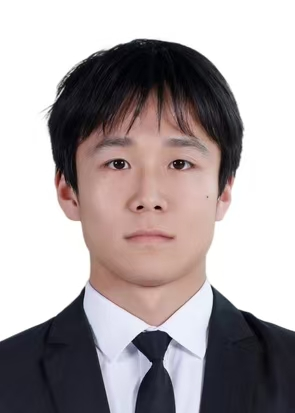
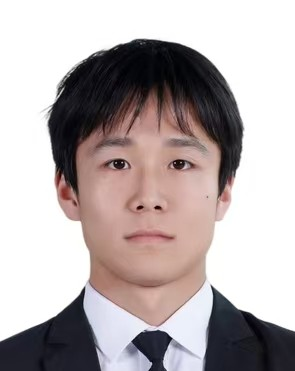
deploy: 卡通学生插画与更新老师照片

Changed region(s): [[0.0, 0.0889, 1.0, 1.0], [0.8847, 0.9488, 0.9153, 1.0]]

diff --git a/index.html b/index.html
@@ -1,1 +1,1 @@
-<!DOCTYPE html> <html lang="zh-CN"> <head>   <meta charset="UTF-8">   <meta name="viewport" content="width=device-width, initial-scale=1">   <title>体验课报名</title>   <link rel="stylesheet" href="css/styles.css"> </head> <body>   <div id="app">     <section id="view-poster" class="view">       <header class="page-head">         <div class="hero-decor" aria-hidden="true">           <svg class="sun" viewBox="0 0 80 80" xmlns="http://www.w3.org/2000/svg"><circle cx="40" cy="40" r="20" fill="#FFC94A"/><g stroke="#FFC94A" stroke-width="5" stroke-linecap="round"><line x1="40" y1="6" x2="40" y2="16"/><line x1="40" y1="64" x2="40" y2="74"/><line x1="6" y1="40" x2="16" y2="40"/><line x1="64" y1="40" x2="74" y2="40"/><line x1="16" y1="16" x2="23" y2="23"/><line x1="57" y1="57" x2="64" y2="64"/><line x1="16" y1="64" x2="23" y2="57"/><line x1="57" y1="23" x2="64" y2="16"/></g></svg>           <svg class="cloud cloud-1" viewBox="0 0 100 60" xmlns="http://www.w3.org/2000/svg"><g fill="#FFFFFF"><ellipse cx="30" cy="42" rx="24" ry="12"/><ellipse cx="52" cy="34" rx="18" ry="14"/><ellipse cx="74" cy="42" rx="20" ry="11"/></g></svg>           <svg class="cloud cloud-2" viewBox="0 0 100 60" xmlns="http://www.w3.org/2000/svg"><g fill="#FFFFFF"><ellipse cx="30" cy="42" rx="24" ry="12"/><ellipse cx="52" cy="34" rx="18" ry="14"/><ellipse cx="74" cy="42" rx="20" ry="11"/></g></svg>         </div>         <h1 class="site-title">XXX体验课</h1>         <p class="site-subtitle">多学科体验 · 可视化反馈 · 课后延续</p>       </header>        <section class="module-card">         <div class="module-head">           <h2 class="module-title">📚 课程特色</h2>           <a class="link-more" href="#/detail/course">详细了解→</a>         </div>         <div class="feature-list" id="feature-list"></div>       </section>        <section class="module-card">         <div class="module-head">           <h2 class="module-title">👩🏫 师资力量</h2>           <a class="link-more" href="#/detail/teachers">详细了解→</a>         </div>         <div class="teacher-grid" id="teacher-grid"></div>       </section>        <section class="module-card">         <div class="module-head">           <h2 class="module-title">🏆 往期学员成果</h2>           <a class="link-more" href="#/detail/works">详细了解→</a>         </div>         <div class="work-grid" id="work-grid"></div>       </section>        <div class="cta-wrap">         <a class="btn-primary" href="#/register">立即报名</a>       </div>     </section>      <section id="view-detail" class="view">       <header class="page-head detail-head">         <a class="btn-back" href="#/">‹ 返回</a>         <h1 class="page-title" id="detail-title">课程特色</h1>       </header>       <div class="detail-body" id="detail-body">内容待更新</div>     </section>      <section id="view-register" class="view">       <header class="page-head detail-head">         <a class="btn-back" href="#/">‹ 返回</a>         <h1 class="page-title">体验课报名</h1>       </header>        <div class="form-group">         <label class="form-label">家长姓名</label>         <div id="parent-rows"></div>         <button type="button" class="btn-add" id="add-parent">添加家长</button>       </div>        <div class="form-group">         <label class="form-label">孩子姓名与年级</label>         <div id="child-rows"></div>         <button type="button" class="btn-add" id="add-child">添加孩子</button>       </div>        <div class="form-group">         <label class="form-label">感兴趣的课程</label>         <button type="button" class="course-select" id="course-select">请选择课程</button>         <div class="course-menu" id="course-menu"></div>         <div class="chips" id="course-chips"></div>       </div>        <div class="form-group">         <label class="form-label">家长手机号</label>         <div class="phone-row">           <input type="text" inputmode="numeric" id="phone" placeholder="12345678910" maxlength="11" autocomplete="off">           <button type="button" class="btn-code" id="send-code">发送验证码</button>         </div>         <div class="field-error" id="phone-error"></div>       </div>        <div class="form-group">         <label class="form-label">验证码（请写出正确的四位数字验证码）</label>         <input type="text" inputmode="numeric" id="code" placeholder="请输入4位验证码" maxlength="4" autocomplete="off">         <div class="field-error" id="code-error"></div>       </div>        <div class="cta-wrap">         <button type="button" class="btn-primary" id="submit" disabled>立即报名</button>       </div>     </section>      <section id="view-result" class="view">       <header class="page-head detail-head">         <h1 class="page-title">报名结果</h1>       </header>       <div class="result-red" id="result-red">信息已收到 报名结果将在24小时内通过电话或短信通知</div>       <div class="video-placeholder" id="video-placeholder">往期家长或学生的课程或采访视频</div>       <div class="wechat-line" id="wechat-line">若需第一时间确定报名结果或了解详情请添加课程微信：12345678910</div>       <div class="result-actions">         <button type="button" class="btn-primary" id="btn-known">我已知悉</button>         <button type="button" class="btn-secondary" id="btn-unknown">未知悉</button>       </div>       <div class="result-feedback" id="result-feedback"></div>     </section>   </div>    <script src="js/data.js"></script>   <script src="js/validate.js"></script>   <script src="js/countdown.js"></script>   <script src="js/form-state.js"></script>   <script src="js/app.js"></script> </body> </html>
+<!DOCTYPE html> <html lang="zh-CN"> <head>   <meta charset="UTF-8">   <meta name="viewport" content="width=device-width, initial-scale=1">   <title>体验课报名</title>   <link rel="stylesheet" href="css/styles.css"> </head> <body>   <div id="app">     <section id="view-poster" class="view">       <header class="page-head">         <div class="hero-decor" aria-hidden="true">           <svg class="sun" viewBox="0 0 80 80" xmlns="http://www.w3.org/2000/svg"><circle cx="40" cy="40" r="20" fill="#FFC94A"/><g stroke="#FFC94A" stroke-width="5" stroke-linecap="round"><line x1="40" y1="6" x2="40" y2="16"/><line x1="40" y1="64" x2="40" y2="74"/><line x1="6" y1="40" x2="16" y2="40"/><line x1="64" y1="40" x2="74" y2="40"/><line x1="16" y1="16" x2="23" y2="23"/><line x1="57" y1="57" x2="64" y2="64"/><line x1="16" y1="64" x2="23" y2="57"/><line x1="57" y1="23" x2="64" y2="16"/></g></svg>           <svg class="cloud cloud-1" viewBox="0 0 100 60" xmlns="http://www.w3.org/2000/svg"><g fill="#FFFFFF"><ellipse cx="30" cy="42" rx="24" ry="12"/><ellipse cx="52" cy="34" rx="18" ry="14"/><ellipse cx="74" cy="42" rx="20" ry="11"/></g></svg>           <svg class="cloud cloud-2" viewBox="0 0 100 60" xmlns="http://www.w3.org/2000/svg"><g fill="#FFFFFF"><ellipse cx="30" cy="42" rx="24" ry="12"/><ellipse cx="52" cy="34" rx="18" ry="14"/><ellipse cx="74" cy="42" rx="20" ry="11"/></g></svg>         </div>         <h1 class="site-title">XXX体验课</h1>         <p class="site-subtitle">多学科体验 · 可视化反馈 · 课后延续</p>         <div class="hero-students" aria-hidden="true">           <span class="hero-student" id="hero-student-boy"></span>           <span class="hero-student" id="hero-student-girl"></span>         </div>       </header>        <section class="module-card">         <div class="module-head">           <h2 class="module-title"><span class="module-icon"><svg viewBox="0 0 24 24" xmlns="http://www.w3.org/2000/svg"><path d="M4 5a2 2 0 0 1 2-2h12a1 1 0 0 1 1 1v16a1 1 0 0 1-1 1H6a2 2 0 0 1-2-2z" fill="none" stroke="currentColor" stroke-width="2"/><path d="M8 7h8M8 11h8" stroke="currentColor" stroke-width="2" stroke-linecap="round"/></svg></span>课程特色</h2>           <a class="link-more" href="#/detail/course">详细了解→</a>         </div>         <div class="feature-list" id="feature-list"></div>       </section>        <section class="module-card">         <div class="module-head">           <h2 class="module-title"><span class="module-icon"><svg viewBox="0 0 24 24" xmlns="http://www.w3.org/2000/svg"><path d="M2 9 12 4l10 5-10 5z" fill="none" stroke="currentColor" stroke-width="2" stroke-linejoin="round"/><path d="M6 11v5c0 1.5 2.7 3 6 3s6-1.5 6-3v-5" fill="none" stroke="currentColor" stroke-width="2"/></svg></span>师资力量</h2>           <a class="link-more" href="#/detail/teachers">详细了解→</a>         </div>         <div class="teacher-grid" id="teacher-grid"></div>       </section>        <section class="module-card">         <div class="module-head">           <h2 class="module-title"><span class="module-icon"><svg viewBox="0 0 24 24" xmlns="http://www.w3.org/2000/svg"><path d="M12 2l2.7 5.8 6.3.8-4.6 4.4 1.2 6.3-5.6-3-5.6 3 1.2-6.3L3 8.6l6.3-.8z" fill="none" stroke="currentColor" stroke-width="2" stroke-linejoin="round"/></svg></span>往期学员成果</h2>           <a class="link-more" href="#/detail/works">详细了解→</a>         </div>         <div class="work-grid" id="work-grid"></div>       </section>        <div class="cta-wrap">         <a class="btn-primary" href="#/register">立即报名</a>       </div>     </section>      <section id="view-detail" class="view">       <header class="page-head detail-head">         <a class="btn-back" href="#/">‹ 返回</a>         <h1 class="page-title" id="detail-title">课程特色</h1>       </header>       <div class="detail-body" id="detail-body">内容待更新</div>     </section>      <section id="view-register" class="view">       <header class="page-head detail-head">         <a class="btn-back" href="#/">‹ 返回</a>         <h1 class="page-title">体验课报名</h1>       </header>        <div class="form-group">         <label class="form-label">家长姓名</label>         <div id="parent-rows"></div>         <button type="button" class="btn-add" id="add-parent">添加家长</button>       </div>        <div class="form-group">         <label class="form-label">孩子姓名与年级</label>         <div id="child-rows"></div>         <button type="button" class="btn-add" id="add-child">添加孩子</button>       </div>        <div class="form-group">         <label class="form-label">感兴趣的课程</label>         <button type="button" class="course-select" id="course-select">请选择课程</button>         <div class="course-menu" id="course-menu"></div>         <div class="chips" id="course-chips"></div>       </div>        <div class="form-group">         <label class="form-label">家长手机号</label>         <div class="phone-row">           <input type="text" inputmode="numeric" id="phone" placeholder="12345678910" maxlength="11" autocomplete="off">           <button type="button" class="btn-code" id="send-code">发送验证码</button>         </div>         <div class="field-error" id="phone-error"></div>       </div>        <div class="form-group">         <label class="form-label">验证码（请写出正确的四位数字验证码）</label>         <input type="text" inputmode="numeric" id="code" placeholder="请输入4位验证码" maxlength="4" autocomplete="off">         <div class="field-error" id="code-error"></div>       </div>        <div class="cta-wrap">         <button type="button" class="btn-primary" id="submit" disabled>立即报名</button>       </div>     </section>      <section id="view-result" class="view">       <header class="page-head detail-head">         <h1 class="page-title">报名结果</h1>       </header>       <div class="result-red" id="result-red">信息已收到 报名结果将在24小时内通过电话或短信通知</div>       <div class="video-placeholder" id="video-placeholder">往期家长或学生的课程或采访视频</div>       <div class="wechat-line" id="wechat-line">若需第一时间确定报名结果或了解详情请添加课程微信：12345678910</div>       <div class="result-actions">         <button type="button" class="btn-primary" id="btn-known">我已知悉</button>         <button type="button" class="btn-secondary" id="btn-unknown">未知悉</button>       </div>       <div class="result-feedback" id="result-feedback"></div>     </section>   </div>    <script src="js/data.js"></script>   <script src="js/validate.js"></script>   <script src="js/countdown.js"></script>   <script src="js/form-state.js"></script>   <script src="js/illustrations.js"></script>   <script src="js/app.js"></script> </body> </html>

diff --git a/js/illustrations.js b/js/illustrations.js
@@ -1,0 +1,127 @@
+(function (root, factory) {
+  if (typeof module === 'object' && module.exports) { module.exports = factory(); }
+  else { root.App = root.App || {}; Object.assign(root.App, factory()); }
+})(typeof self !== 'undefined' ? self : this, function () {
+  'use strict';
+
+  function studentBoy() {
+    return '<svg viewBox="0 0 140 150" xmlns="http://www.w3.org/2000/svg" role="img" aria-label="卡通学生">' +
+      '<rect x="10" y="60" width="34" height="50" rx="10" fill="#F2A93B"/>' +
+      '<rect x="10" y="64" width="34" height="8" fill="#E8952D"/>' +
+      '<rect x="48" y="108" width="14" height="28" rx="7" fill="#3A3540"/>' +
+      '<rect x="78" y="108" width="14" height="28" rx="7" fill="#3A3540"/>' +
+      '<ellipse cx="55" cy="140" rx="12" ry="6" fill="#E8952D"/>' +
+      '<ellipse cx="85" cy="140" rx="12" ry="6" fill="#E8952D"/>' +
+      '<path d="M42 58 L98 58 L94 112 L46 112 Z" fill="#4E8EF7"/>' +
+      '<rect x="58" y="62" width="24" height="30" rx="8" fill="#FFFFFF"/>' +
+      '<path d="M44 64 Q30 72 32 92" stroke="#FFD9B8" stroke-width="10" fill="none" stroke-linecap="round"/>' +
+      '<path d="M96 64 Q110 72 108 92" stroke="#FFD9B8" stroke-width="10" fill="none" stroke-linecap="round"/>' +
+      '<rect x="58" y="44" width="24" height="14" rx="7" fill="#FFD9B8"/>' +
+      '<circle cx="70" cy="26" r="25" fill="#FFD9B8"/>' +
+      '<path d="M45 24 Q44 0 70 0 Q96 0 95 24 Q92 10 70 10 Q48 10 45 24 Z" fill="#3A3540"/>' +
+      '<circle cx="60" cy="28" r="3" fill="#3A3540"/>' +
+      '<circle cx="80" cy="28" r="3" fill="#3A3540"/>' +
+      '<path d="M62 38 Q70 44 78 38" stroke="#3A3540" stroke-width="3" fill="none" stroke-linecap="round"/>' +
+      '<circle cx="52" cy="37" r="4" fill="#FFB3A0"/>' +
+      '<circle cx="88" cy="37" r="4" fill="#FFB3A0"/>' +
+      '</svg>';
+  }
+
+  function studentGirl() {
+    return '<svg viewBox="0 0 140 150" xmlns="http://www.w3.org/2000/svg" role="img" aria-label="卡通学生">' +
+      '<circle cx="22" cy="24" r="12" fill="#6B4A2F"/>' +
+      '<circle cx="118" cy="24" r="12" fill="#6B4A2F"/>' +
+      '<rect x="48" y="108" width="13" height="28" rx="6" fill="#FFD9B8"/>' +
+      '<rect x="79" y="108" width="13" height="28" rx="6" fill="#FFD9B8"/>' +
+      '<ellipse cx="54" cy="140" rx="12" ry="6" fill="#E85D75"/>' +
+      '<ellipse cx="86" cy="140" rx="12" ry="6" fill="#E85D75"/>' +
+      '<path d="M42 58 L98 58 L108 112 L32 112 Z" fill="#E85D75"/>' +
+      '<path d="M44 64 Q30 72 32 92" stroke="#FFD9B8" stroke-width="10" fill="none" stroke-linecap="round"/>' +
+      '<path d="M96 64 Q110 72 108 92" stroke="#FFD9B8" stroke-width="10" fill="none" stroke-linecap="round"/>' +
+      '<rect x="58" y="44" width="24" height="14" rx="7" fill="#FFD9B8"/>' +
+      '<circle cx="70" cy="26" r="25" fill="#FFD9B8"/>' +
+      '<path d="M45 24 Q46 0 70 0 Q94 0 95 24 Q91 9 70 9 Q49 9 45 24 Z" fill="#6B4A2F"/>' +
+      '<path d="M46 12 Q26 10 22 24 Q30 18 46 16 Z" fill="#6B4A2F"/>' +
+      '<path d="M94 12 Q114 10 118 24 Q110 18 94 16 Z" fill="#6B4A2F"/>' +
+      '<circle cx="60" cy="28" r="3" fill="#3A3540"/>' +
+      '<circle cx="80" cy="28" r="3" fill="#3A3540"/>' +
+      '<path d="M62 38 Q70 44 78 38" stroke="#3A3540" stroke-width="3" fill="none" stroke-linecap="round"/>' +
+      '<circle cx="52" cy="37" r="4" fill="#FFB3A0"/>' +
+      '<circle cx="88" cy="37" r="4" fill="#FFB3A0"/>' +
+      '</svg>';
+  }
+
+  function featureArt(key) {
+    var art = {
+      subjects: '<svg viewBox="0 0 96 72" xmlns="http://www.w3.org/2000/svg" role="img" aria-label="多学科">' +
+        '<rect x="10" y="14" width="56" height="12" rx="4" fill="#4E8EF7"/>' +
+        '<rect x="14" y="28" width="62" height="12" rx="4" fill="#F2A93B"/>' +
+        '<rect x="8" y="42" width="52" height="12" rx="4" fill="#4FBF8E"/>' +
+        '<rect x="70" y="16" width="14" height="44" rx="6" fill="#E8952D"/>' +
+        '</svg>',
+      feedback: '<svg viewBox="0 0 96 72" xmlns="http://www.w3.org/2000/svg" role="img" aria-label="可视化反馈">' +
+        '<rect x="22" y="8" width="52" height="58" rx="8" fill="#FFFFFF" stroke="#4E8EF7" stroke-width="3"/>' +
+        '<rect x="38" y="4" width="20" height="10" rx="3" fill="#4E8EF7"/>' +
+        '<rect x="32" y="52" width="10" height="10" fill="#4E8EF7"/>' +
+        '<rect x="45" y="42" width="10" height="20" fill="#4FBF8E"/>' +
+        '<rect x="58" y="32" width="10" height="30" fill="#F2A93B"/>' +
+        '</svg>',
+      continue: '<svg viewBox="0 0 96 72" xmlns="http://www.w3.org/2000/svg" role="img" aria-label="课后延续">' +
+        '<rect x="8" y="26" width="42" height="32" rx="6" fill="#F2A93B"/>' +
+        '<rect x="8" y="26" width="42" height="7" fill="#E8952D"/>' +
+        '<rect x="25" y="20" width="8" height="44" fill="#F7C873"/>' +
+        '<rect x="52" y="30" width="38" height="30" rx="15" fill="#EAF4FF" stroke="#4E8EF7" stroke-width="3"/>' +
+        '<circle cx="63" cy="45" r="3" fill="#4E8EF7"/>' +
+        '<circle cx="72" cy="45" r="3" fill="#4E8EF7"/>' +
+        '<circle cx="81" cy="45" r="3" fill="#4E8EF7"/>' +
+        '</svg>'
+    };
+    return art[key] || art.subjects;
+  }
+
+  function workArt(kind) {
+    var art = {
+      math: '<svg viewBox="0 0 120 90" xmlns="http://www.w3.org/2000/svg" role="img" aria-label="数学">' +
+        '<rect x="16" y="8" width="72" height="70" rx="7" fill="#FFFFFF" stroke="#4E8EF7" stroke-width="3"/>' +
+        '<line x1="26" y1="24" x2="78" y2="24" stroke="#4E8EF7" stroke-width="2"/>' +
+        '<line x1="26" y1="36" x2="70" y2="36" stroke="#4E8EF7" stroke-width="2"/>' +
+        '<text x="26" y="56" font-size="17" fill="#F2A93B" font-weight="bold">72 → 96</text>' +
+        '<text x="26" y="74" font-size="13" fill="#3A3540">+24 分</text>' +
+        '<rect x="96" y="10" width="10" height="60" rx="4" fill="#F2A93B"/>' +
+        '<polygon points="96,10 106,10 101,4" fill="#F7C873"/>' +
+        '</svg>',
+      english: '<svg viewBox="0 0 120 90" xmlns="http://www.w3.org/2000/svg" role="img" aria-label="英语口语">' +
+        '<circle cx="34" cy="46" r="20" fill="#FFD9B8"/>' +
+        '<path d="M14 42 Q14 20 34 20 Q54 20 54 42 Q52 30 34 30 Q16 30 14 42 Z" fill="#8B5A2B"/>' +
+        '<circle cx="27" cy="46" r="2.5" fill="#3A3540"/>' +
+        '<circle cx="41" cy="46" r="2.5" fill="#3A3540"/>' +
+        '<path d="M29 54 Q34 58 39 54" stroke="#3A3540" stroke-width="2.5" fill="none" stroke-linecap="round"/>' +
+        '<circle cx="86" cy="46" r="20" fill="#F4C9A0"/>' +
+        '<path d="M66 42 Q66 20 86 20 Q106 20 106 42 Q104 30 86 30 Q68 30 66 42 Z" fill="#3A3540"/>' +
+        '<circle cx="79" cy="46" r="2.5" fill="#3A3540"/>' +
+        '<circle cx="93" cy="46" r="2.5" fill="#3A3540"/>' +
+        '<path d="M81 54 Q86 58 91 54" stroke="#3A3540" stroke-width="2.5" fill="none" stroke-linecap="round"/>' +
+        '<path d="M54 28 Q64 16 58 6 Q63 16 71 28 Z" fill="#EAF4FF" stroke="#4E8EF7" stroke-width="2"/>' +
+        '</svg>',
+      science: '<svg viewBox="0 0 120 90" xmlns="http://www.w3.org/2000/svg" role="img" aria-label="科学实验">' +
+        '<path d="M52 14 L68 14 L68 40 L90 72 Q94 80 78 80 L42 80 Q26 80 30 72 L52 40 Z" fill="#D9F2E7" stroke="#4FBF8E" stroke-width="3"/>' +
+        '<rect x="50" y="6" width="20" height="10" rx="3" fill="#4FBF8E"/>' +
+        '<circle cx="50" cy="58" r="5" fill="#4FBF8E"/>' +
+        '<circle cx="64" cy="66" r="4" fill="#4FBF8E"/>' +
+        '<path d="M96 34 Q104 24 106 14 Q112 24 104 36 Z" fill="#4FBF8E"/>' +
+        '<line x1="104" y1="36" x2="104" y2="52" stroke="#4FBF8E" stroke-width="3"/>' +
+        '</svg>',
+      art: '<svg viewBox="0 0 120 90" xmlns="http://www.w3.org/2000/svg" role="img" aria-label="创意美术">' +
+        '<ellipse cx="54" cy="52" rx="32" ry="26" fill="#FCE7C1" stroke="#F2A93B" stroke-width="3"/>' +
+        '<circle cx="41" cy="43" r="6" fill="#E45B5B"/>' +
+        '<circle cx="58" cy="37" r="6" fill="#4E8EF7"/>' +
+        '<circle cx="71" cy="50" r="6" fill="#4FBF8E"/>' +
+        '<circle cx="51" cy="62" r="6" fill="#8E6FE8"/>' +
+        '<rect x="88" y="24" width="10" height="52" rx="5" fill="#B78B5A" transform="rotate(28 93 50)"/>' +
+        '</svg>'
+    };
+    return art[kind] || art.math;
+  }
+
+  return { studentBoy, studentGirl, featureArt, workArt };
+});

diff --git a/js/app.js b/js/app.js
@@ -7,7 +7,7 @@
     if (featureList) {
       featureList.innerHTML = D.FEATURES.map(function (f) {
         return '<div class="feature-item">' +
-          '<div class="feature-icon">' + f.icon + '</div>' +
+          '<div class="feature-icon">' + D.featureArt(f.key) + '</div>' +
           '<div class="feature-body"><h3>' + esc(f.title) + '</h3><p>' + esc(f.text) + '</p></div>' +
           '</div>';
       }).join('');
@@ -33,11 +33,18 @@
     if (workGrid) {
       workGrid.innerHTML = D.WORKS.slice(0, 3).map(function (w) {
         return '<div class="work-card">' +
-          '<div class="work-photo">' + svgForWork(w.kind) + '</div>' +
+          '<div class="work-photo">' + D.workArt(w.kind) + '</div>' +
           '<div class="work-label">' + esc(w.title) + '</div>' +
           '</div>';
       }).join('');
     }
+  }
+
+  function renderHero() {
+    var boy = document.getElementById('hero-student-boy');
+    var girl = document.getElementById('hero-student-girl');
+    if (boy) { boy.innerHTML = D.studentBoy(); }
+    if (girl) { girl.innerHTML = D.studentGirl(); }
   }
 
   var DETAIL_TITLES = {
@@ -146,43 +153,6 @@
     document.getElementById('wechat-line').textContent = D.COPY.WECHAT_LINE;
   }
 
-  function svgForWork(kind) {
-    var svgs = {
-      math: '<svg viewBox="0 0 120 90" xmlns="http://www.w3.org/2000/svg" role="img">' +
-        '<rect x="18" y="10" width="68" height="66" rx="6" fill="#FFFFFF" stroke="#4E8EF7" stroke-width="3"/>' +
-        '<line x1="30" y1="28" x2="74" y2="28" stroke="#4E8EF7" stroke-width="2"/>' +
-        '<line x1="30" y1="40" x2="74" y2="40" stroke="#4E8EF7" stroke-width="2"/>' +
-        '<line x1="30" y1="52" x2="66" y2="52" stroke="#4E8EF7" stroke-width="2"/>' +
-        '<line x1="30" y1="62" x2="58" y2="62" stroke="#F2A93B" stroke-width="3"/>' +
-        '<rect x="94" y="12" width="10" height="58" rx="4" fill="#F2A93B"/>' +
-        '<polygon points="94,12 104,12 99,4" fill="#F7C873"/>' +
-        '</svg>',
-      science: '<svg viewBox="0 0 120 90" xmlns="http://www.w3.org/2000/svg" role="img">' +
-        '<path d="M52 14 L68 14 L68 40 L90 72 Q94 80 78 80 L42 80 Q26 80 30 72 L52 40 Z" fill="#D9F2E7" stroke="#4FBF8E" stroke-width="3"/>' +
-        '<rect x="50" y="6" width="20" height="10" rx="3" fill="#4FBF8E"/>' +
-        '<circle cx="50" cy="58" r="5" fill="#4FBF8E"/>' +
-        '<circle cx="64" cy="66" r="4" fill="#4FBF8E"/>' +
-        '<circle cx="72" cy="50" r="3" fill="#4FBF8E"/>' +
-        '</svg>',
-      art: '<svg viewBox="0 0 120 90" xmlns="http://www.w3.org/2000/svg" role="img">' +
-        '<ellipse cx="56" cy="54" rx="34" ry="27" fill="#FCE7C1" stroke="#F2A93B" stroke-width="3"/>' +
-        '<circle cx="42" cy="44" r="6" fill="#E45B5B"/>' +
-        '<circle cx="60" cy="38" r="6" fill="#4E8EF7"/>' +
-        '<circle cx="74" cy="52" r="6" fill="#4FBF8E"/>' +
-        '<circle cx="52" cy="64" r="6" fill="#8E6FE8"/>' +
-        '<rect x="88" y="28" width="10" height="50" rx="5" fill="#B78B5A" transform="rotate(30 93 53)"/>' +
-        '</svg>',
-      code: '<svg viewBox="0 0 120 90" xmlns="http://www.w3.org/2000/svg" role="img">' +
-        '<rect x="22" y="14" width="76" height="52" rx="7" fill="#FFFFFF" stroke="#8E6FE8" stroke-width="3"/>' +
-        '<path d="M40 28 L30 40 L40 52" fill="none" stroke="#8E6FE8" stroke-width="4" stroke-linecap="round" stroke-linejoin="round"/>' +
-        '<path d="M80 28 L90 40 L80 52" fill="none" stroke="#8E6FE8" stroke-width="4" stroke-linecap="round" stroke-linejoin="round"/>' +
-        '<line x1="55" y1="26" x2="65" y2="54" stroke="#F2A93B" stroke-width="4" stroke-linecap="round"/>' +
-        '<rect x="18" y="72" width="84" height="10" rx="5" fill="#8E6FE8"/>' +
-        '</svg>'
-    };
-    return svgs[kind] || svgs.math;
-  }
-
   function renderDetail(key) {
     var body = document.getElementById('detail-body');
     if (!body) { return; }
@@ -199,9 +169,11 @@
             return '<li>' + esc(p) + '</li>';
           }).join('') + '</ul>';
         }
-        return '<div class="detail-block">' +
-          '<div class="detail-block-head"><span class="detail-icon">' + f.icon + '</span><h3>' + esc(f.title) + '</h3></div>' +
-          '<p class="detail-subtitle">' + esc(f.subtitle) + '</p>' +
+        return '<div class="detail-block" style="border-left:6px solid ' + f.accent + '">' +
+          '<div class="detail-block-head">' +
+            '<span class="detail-art">' + D.featureArt(f.key) + '</span>' +
+            '<div class="detail-block-title"><h3>' + esc(f.title) + '</h3><p class="detail-subtitle">' + esc(f.subtitle) + '</p></div>' +
+          '</div>' +
           '<p class="detail-desc">' + esc(f.desc) + '</p>' +
           extra +
           '</div>';
@@ -220,7 +192,7 @@
     } else if (key === 'works') {
       body.innerHTML = '<div class="work-list">' + D.WORKS.map(function (w) {
         return '<div class="work-item">' +
-          '<div class="work-item-image">' + svgForWork(w.kind) + '</div>' +
+          '<div class="work-item-image">' + D.workArt(w.kind) + '</div>' +
           '<div class="work-item-body">' +
             '<div class="work-item-name">' + esc(w.name) + '</div>' +
             '<div class="work-item-title">' + esc(w.title) + '</div>' +
@@ -382,6 +354,7 @@
     if (initialized) { return; }
     initialized = true;
     renderPoster();
+    renderHero();
     renderRegister();
     renderResult();
     bindEvents();

diff --git a/js/data.js b/js/data.js
@@ -20,6 +20,7 @@
     {
       key: 'subjects',
       icon: '📚',
+      accent: '#4E8EF7',
       title: '多学科覆盖',
       subtitle: '全学科覆盖，总有一门适合您的孩子',
       text: '语文 / 数学 / 英语 / 体育 / 乐器 / 舞蹈 / 美术 / 编程 / 书法 / 口才 / 科学实验…… 全学科覆盖，总有一门适合您的孩子',
@@ -34,6 +35,7 @@
     {
       key: 'feedback',
       icon: '📊',
+      accent: '#4FBF8E',
       title: '可视化反馈',
       subtitle: '课堂表现看得见，不“上完就失联”',
       text: '课堂全程记录答题正确率、发言次数、专注时长；课后生成 1 页学情反馈单；老师现场与家长沟通 5 分钟',
@@ -47,6 +49,7 @@
     {
       key: 'continue',
       icon: '🎁',
+      accent: '#F2A93B',
       title: '课后延续',
       subtitle: '体验结束，学习不结束',
       text: '赠送课程配套讲义 + 同类题型拓展练习 5 道；3 天内微信答疑；免费加入“每日一题”学习群',
@@ -78,31 +81,31 @@
 
   const WORKS = [
     {
-      name: '小明 · 小学三年级',
-      title: '数学思维笔记',
-      desc: '用画图法整理“和差问题”，思路清晰、书写工整，被评为本期“最会讲题小老师”。',
+      name: '张同学 · 小学四年级',
+      title: '数学成绩提升 24 分',
+      desc: '经过一个学期的思维训练，数学从 72 分稳步提升到 96 分，应用题与计算题正确率大幅提高。',
       kind: 'math',
       color: '#4E8EF7'
     },
     {
-      name: '小雨 · 初一',
-      title: '科学实验报告',
-      desc: '独立完成“种子发芽对比实验”，记录详实、结论完整，科学态度满分。',
-      kind: 'science',
+      name: '王同学 · 初二',
+      title: '英语口语流畅交流',
+      desc: '从不敢开口到能和外教就校园生活流畅对话 5 分钟，发音与表达自信明显提升。',
+      kind: 'english',
       color: '#4FBF8E'
     },
     {
-      name: '朵朵 · 幼儿园大班',
-      title: '创意美术《我的校园》',
-      desc: '用拼贴和水彩画出心中的校园，色彩明亮，想象力满满。',
-      kind: 'art',
+      name: '李同学 · 小学六年级',
+      title: '科学实验获校级一等奖',
+      desc: '独立完成的“种子发芽对比实验”在校科技节获得一等奖，记录详实、结论完整。',
+      kind: 'science',
       color: '#F2A93B'
     },
     {
-      name: '乐乐 · 小学五年级',
-      title: '编程小游戏',
-      desc: '自己设计“接水果”小游戏，加入计分和音效，逻辑清晰、完成度高。',
-      kind: 'code',
+      name: '陈同学 · 小学三年级',
+      title: '创意美术《我的校园》',
+      desc: '用拼贴和水彩画出心中的校园，作品被评为“最受欢迎作品”，色彩明亮、想象力满满。',
+      kind: 'art',
       color: '#8E6FE8'
     }
   ];

diff --git a/css/styles.css b/css/styles.css
@@ -692,3 +692,69 @@ body {
   .work-list { grid-template-columns: 1fr 1fr; }
   .feat-groups { grid-template-columns: repeat(4, 1fr); }
 }
+
+.module-title {
+  display: flex;
+  align-items: center;
+}
+
+.module-icon {
+  flex: 0 0 auto;
+  display: inline-flex;
+  align-items: center;
+  justify-content: center;
+  width: 28px;
+  height: 28px;
+  margin-right: 8px;
+  color: var(--blue);
+}
+
+.module-icon svg {
+  width: 24px;
+  height: 24px;
+}
+
+.feature-icon svg {
+  width: 34px;
+  height: 32px;
+}
+
+.hero-students {
+  display: flex;
+  justify-content: center;
+  gap: 12px;
+  margin-top: 12px;
+}
+
+.hero-student {
+  width: 84px;
+}
+
+.hero-student svg {
+  display: block;
+  width: 100%;
+  height: auto;
+}
+
+.detail-art {
+  flex: 0 0 84px;
+  display: flex;
+  align-items: center;
+  justify-content: center;
+}
+
+.detail-art svg {
+  width: 80px;
+  height: 62px;
+}
+
+.detail-block-title {
+  flex: 1;
+  min-width: 0;
+}
+
+.detail-block-title h3 {
+  margin: 0;
+  font-size: 20px;
+  color: var(--blue-dark);
+}
